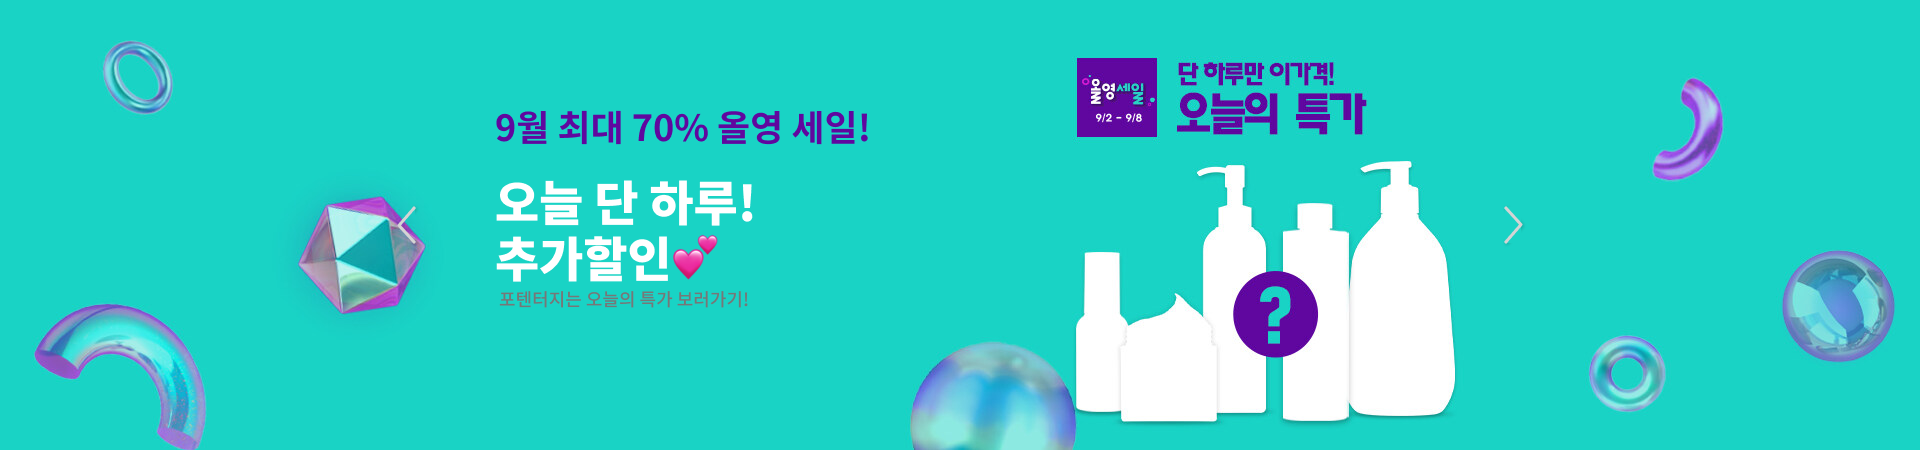
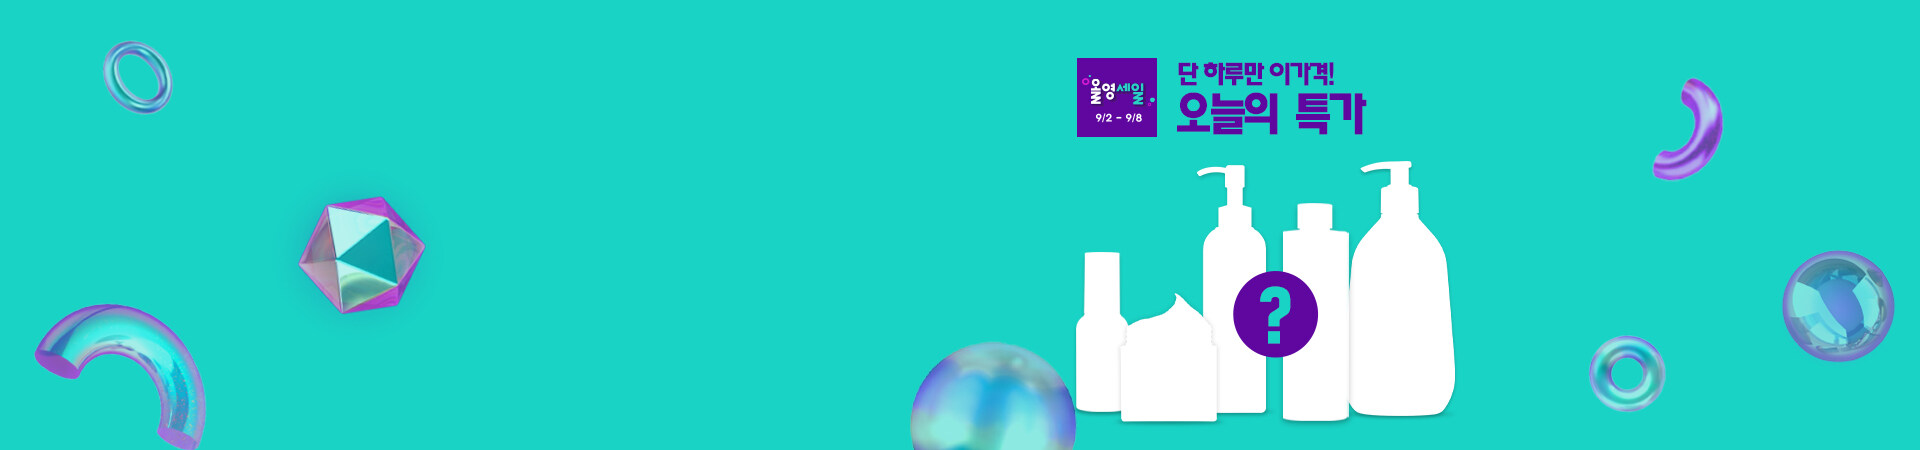
feat: 퍼블리싱 구현

Changed region(s): [[0.25, 0.4044, 0.4062, 0.6844], [0.25, 0.2489, 0.4688, 0.3422]]

diff --git a/jiyoung/index.html b/jiyoung/index.html
@@ -73,55 +73,62 @@
   <main>
     <section class="banner">
       <img src="images/banner.png" alt="">
+      <div class="banner_title">
+        <p>9월 최대 70% 올영 세일!</p>
+        <p>오늘 단 하루! <br/>추가할인💕</p>
+        <p>포텐터지는 오늘의 특가 보러가기</p>
+      </div>
     </section>
     <section class="category">
-      <div class="category_container">
-        <img class="category_img" src="images/prevIcon.png" alt="">
-        <p class="category_title"></p>
-      </div>
-      <div class="category_container">
-        <img class="category_img" src="images/c1.png" alt="">
-        <p class="category_title">기초 화장품</p>
-      </div>
-      <div class="category_container">
-        <img class="category_img" src="images/c2.png" alt="">
-        <p class="category_title">더모 코스메틱</p>
-      </div>
-      <div class="category_container">
-        <img class="category_img" src="images/c3.png" alt="">
-        <p class="category_title">메이크업/네일</p>
-      </div>
-      <div class="category_container">
-        <img class="category_img" src="images/c4.png" alt="">
-        <p class="category_title">바디케어</p>
-      </div>
-      <div class="category_container">
-        <img class="category_img" src="images/c5.png" alt="">
-        <p class="category_title">헤어케어</p>
-      </div>
-      <div class="category_container">
-        <img class="category_img" src="images/c6.png" alt="">
-        <p class="category_title">향수 디퓨저</p>
-      </div>
-      <div class="category_container">
-        <img class="category_img" src="images/c7.png" alt="">
-        <p class="category_title">미용소품</p>
-      </div>
-      <div class="category_container">
-        <img class="category_img" src="images/c8.png" alt="">
-        <p class="category_title">남성</p>
-      </div>
-      <div class="category_container">
-        <img class="category_img" src="images/c9.png" alt="">
-        <p class="category_title">건강/위생용품</p>
-      </div>
-      <div class="category_container">
-        <img class="category_img" src="images/c9.png" alt="">
-        <p class="category_title">건강식품</p>
-      </div>
-      <div class="category_container">
-        <img class="category_img" src="images/nextIcon.png" alt="">
-        <p class="category_title"></p>
+      <div class="category_list">
+        <div class="category_container">
+          <img class="category_img" src="images/prevIcon.png" alt="">
+          <p class="category_title"></p>
+        </div>
+        <div class="category_container">
+          <img class="category_img" src="images/c1.png" alt="">
+          <p class="category_title">기초 화장품</p>
+        </div>
+        <div class="category_container">
+          <img class="category_img" src="images/c2.png" alt="">
+          <p class="category_title">더모 코스메틱</p>
+        </div>
+        <div class="category_container">
+          <img class="category_img" src="images/c3.png" alt="">
+          <p class="category_title">메이크업/네일</p>
+        </div>
+        <div class="category_container">
+          <img class="category_img" src="images/c4.png" alt="">
+          <p class="category_title">바디케어</p>
+        </div>
+        <div class="category_container">
+          <img class="category_img" src="images/c5.png" alt="">
+          <p class="category_title">헤어케어</p>
+        </div>
+        <div class="category_container">
+          <img class="category_img" src="images/c6.png" alt="">
+          <p class="category_title">향수 디퓨저</p>
+        </div>
+        <div class="category_container">
+          <img class="category_img" src="images/c7.png" alt="">
+          <p class="category_title">미용소품</p>
+        </div>
+        <div class="category_container">
+          <img class="category_img" src="images/c8.png" alt="">
+          <p class="category_title">남성</p>
+        </div>
+        <div class="category_container">
+          <img class="category_img" src="images/c9.png" alt="">
+          <p class="category_title">건강/위생용품</p>
+        </div>
+        <div class="category_container">
+          <img class="category_img" src="images/c9.png" alt="">
+          <p class="category_title">건강식품</p>
+        </div>
+        <div class="category_container">
+          <img class="category_img" src="images/nextIcon.png" alt="">
+          <p class="category_title"></p>
+        </div>
       </div>
     </section>
     <section class="event">
@@ -188,21 +195,39 @@
         <img src="images/best.png" alt="">
       </div>
       <div class="only_ment">
-        <p>!오직 올리브영에서만!</p>
+        <p><span>!</span> 오직 올리브영에서만 <span>!</span></p>
       </div>
       <div class="only_slider">
         <div>
+          <img src="images/prevIcon.png" alt="">
+        </div>
+        <div>
           <img src="images/only1.png" alt="">
-          <p>오뚜기 스프에 슾며들기</p>
+          <div class="only_slider-desc">
+            <p>오뚜기 스프에 슾며들기</p>
+            <img src="images/rightArrow.png" alt="">
+          </div>
         </div>
         <div>
           <img src="images/only2.png" alt="">
-          <p>세븐틴 추천템 보러가기</p>
+          <div class="only_slider-desc">
+            <p>세븐틴 추천템 보러가기</p>
+            <img src="images/rightArrow.png" alt="">
+          </div>
         </div>
         <div>
           <img src="images/only3.png" alt="">
-          <p>'진정'되는 행사 보러가기</p>
+          <div class="only_slider-desc">
+            <p>'진정'되는 행사 보러가기</p>
+            <img src="images/rightArrow.png" alt="">
+          </div>
         </div>
+        <div>
+          <img src="images/nextIcon.png" alt="">
+        </div>
+      </div>
+      <div class="only_slider-more">
+        <img src="images/dots.png" alt="">
       </div>
     </section>
     <section class="brand">
@@ -237,7 +262,7 @@
     <section class="ranking">
       <div class="recommend_title">
         <span>다른 상품도 추천해 드릴게요!</span>
-        <span>실시간 VIEW 랭킹 </span>
+        <span>실시간 VIEW 랭킹</span>
         <span>더보기></span>
       </div>
       <div class="ranking_list">

diff --git a/jiyoung/style.css b/jiyoung/style.css
@@ -4,6 +4,7 @@ html {
 }
 body {
   box-sizing: border-box;
+  margin: 0
 }
 p {
   margin: 0
@@ -125,22 +126,50 @@ nav:nth-child(1) span {
 
 /* banner */
 .banner {
+  width: 100%;
   height: 450px;
   position: relative;
-  top: 0;
-  left: 0;
+}
+.banner_title {
+  position: absolute;
+  top: 15%;
+  left: 25%;
+}
+.banner_title p:first-child{
+  font-size: 36px;
+  color: #60079F;
+  font-weight: bold;
+  margin-bottom: 20px;
+}
+.banner_title p:nth-of-type(2){
+  font-size: 48px;
+  color: white;
+  font-weight: bold;
+}
+.banner_title p:nth-of-type(3){
+  font-size: 18px;
+  color: #777777;
+  font-weight: bold;
 }
 
 /* category */
 .category {
-  width: 1920px;
+  width: 100%;
   height: 330px;
   background-color: #19D3C5;
   display: flex;
   justify-content: row;
   align-content: center;
+  margin-bottom: 150px;
 }
-
+.category_list {
+  width: 1020px;
+  height: 120px;
+  margin: 100px auto;
+  display: flex;
+  justify-content: space-between;
+  align-items: center;
+}
 .category-container {
   height: 120px;
   display: flex;
@@ -161,7 +190,12 @@ nav:nth-child(1) span {
 
 /*event*/
 .event {
-  /* position: absolute; */
+  display: flex;
+  position: absolute;
+  top: 950px;
+  left: 50%;
+  transform: translate(-50%, 0);
+
 }
 
 /* recommend */
@@ -182,6 +216,7 @@ nav:nth-child(1) span {
   font-size: 25px;
   font-weight: bold;
   color: #333333;
+  margin-right: 40px;
 }
 .recommend_list {
   display: grid;
@@ -242,10 +277,6 @@ nav:nth-child(1) span {
 .only {
   position: relative;
 }
-.only_background {
-
-}
-
 .only_event {
   display: flex;
   position: absolute;
@@ -259,26 +290,57 @@ nav:nth-child(1) span {
   left: 50%;
   transform: translate(-50%, 0);
 }
+.only_ment p{
+  font-size: 24px;
+  font-weight: bold;
+}
+.only_ment span{
+  color:#EE7D6C;
+}
 .only_slider {
   display: flex;
+  justify-content: space-between;
+  align-items: center;
   position: absolute;
+  width:1020px;
   top: 220px;
   left: 50%;
   transform: translate(-50%, 0);
 }
-.only_slider div{
-  margin: auto 10px;
+.only_slider-desc {
+  width: 310px;
+  height: 24px;
+  display: flex;
+  justify-content:center;
+  align-items: center;
+}
+.only_slider-desc img{
+  width: 10px;
+  height: 20px;
+}
+.only_slider p{
+  font-size: 20px;
+  font-weight: bold;
+  margin-right: 2px;
+}
+.only_slider-more {
+  position: absolute;
+  top: 500px;
+  left: 50%;
+  transform: translate(-50%, 0);
 }
 
 /*brand*/
 .brand {
   display: flex;
   width: 1020px;
+  height: 440px;
   margin: 100px auto 100px;
+  justify-content: space-between;
+  align-items: center;
 }
 .brand_card {
   position:relative;
-  margin-right: 20px;
 }
 .brand_card-desc {
   position: absolute;
